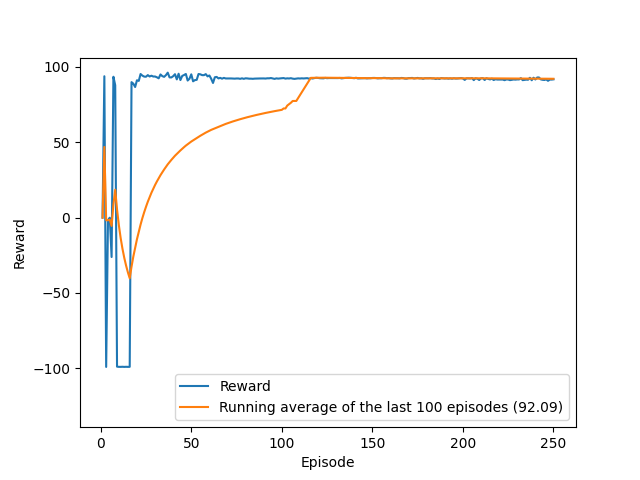
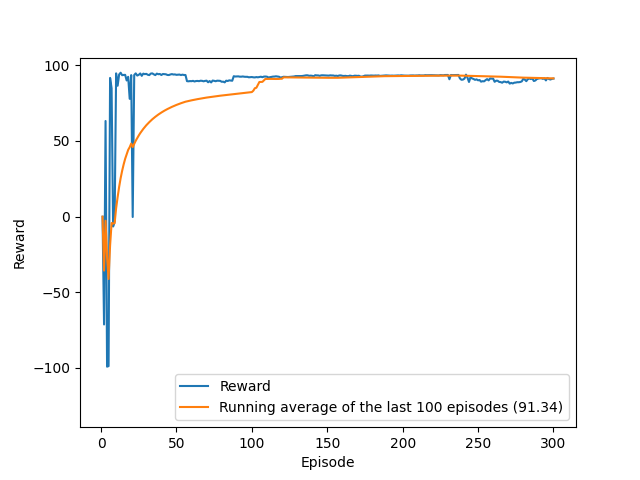
Changed values of hyperparameters, and updated the networks and results.

diff --git a/Section 4 - DDPG/DDPG - MountainCarContinuous.py b/Section 4 - DDPG/DDPG - MountainCarContinuous.py
@@ -40,8 +40,7 @@ class ReplayBuffer:
 class Agent:
     def __init__(self, mem_size, lr_Q, lr_policy, state_size, action_size, action_max, action_min, Q_layers,
                  policy_layers, tau):
-        self.replay_buffer = ReplayBuffer(mem_size=mem_size, state_size=state_size[0], action_size=action_size)
-        state_size = state_size[0]
+        self.replay_buffer = ReplayBuffer(mem_size=mem_size, state_size=state_size, action_size=action_size)
         self.tau = tau
         self.action_size = action_size
         self.action_min = action_min
@@ -148,15 +147,15 @@ def main(training=False):
     env = gym.make('MountainCarContinuous-v0')
     scaler = get_scaler(env)
     buffer_size = int(1e5)
-    agent = Agent(mem_size=buffer_size, lr_Q=0.005, lr_policy=0.005, state_size=env.observation_space.shape,
+    agent = Agent(mem_size=buffer_size, lr_Q=0.005, lr_policy=0.005, state_size=env.observation_space.shape[0],
                   action_size=env.action_space.shape[0], action_max=env.action_space.high[0],
-                  action_min=env.action_space.low[0], Q_layers=[(64, 'relu'), (1, 'linear')],
-                  policy_layers=[(64, 'relu'), (env.action_space.shape[0], 'tanh')], tau=0.995)
+                  action_min=env.action_space.low[0], Q_layers=[(256, 'relu'), (1, 'linear')],
+                  policy_layers=[(256, 'relu'), (env.action_space.shape[0], 'tanh')], tau=0.995)
 
     if training:
         # Training
-        num_iteration = 250
-        batch_size = 32
+        num_iteration = 300
+        batch_size = 64
         gamma = 0.99  # Discount factor
         reward_set = []  # Stores rewards of each episode
         avg_reward_set = []  # Stores the average of the last 100 rewards
